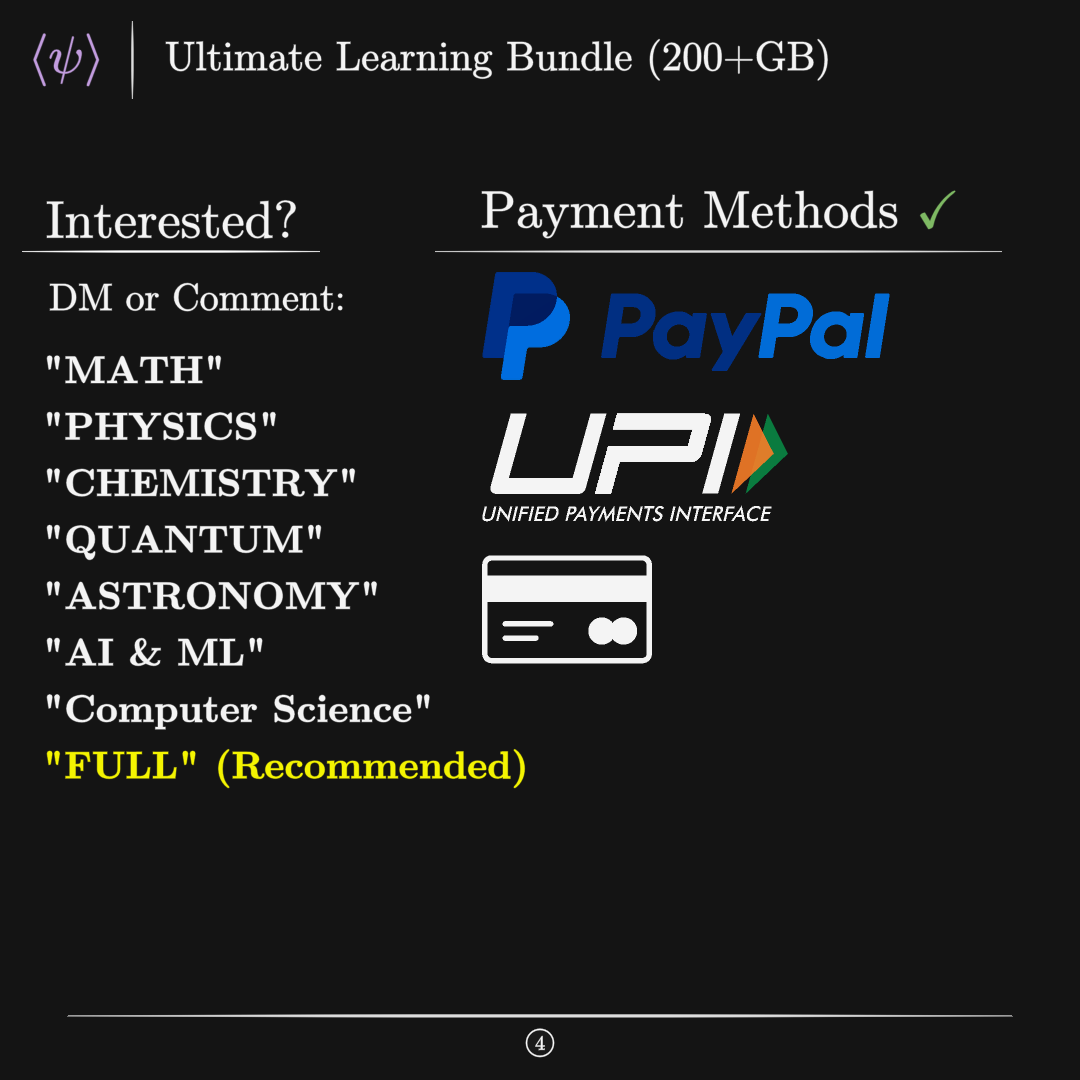
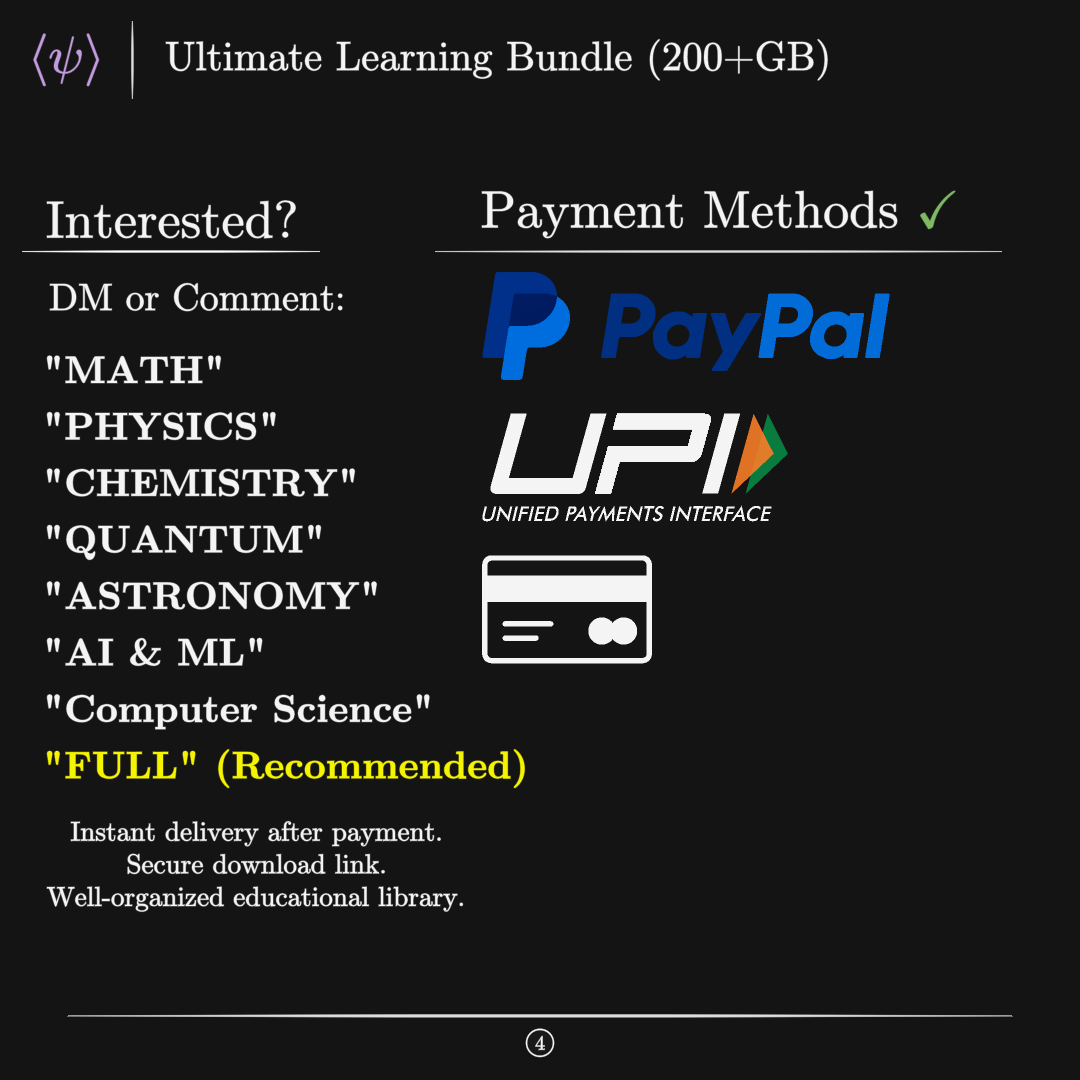
f

Changed region(s): [[0.0306, 0.7639, 0.4278, 0.8556]]

diff --git a/latex_cache/working.tex b/latex_cache/working.tex
@@ -26,15 +26,9 @@
 
 \begin{document}
 
-\flushleft
-DM or Comment:\\[0.25cm]
-            \textbf{"MATH"}\\[0.1cm]
-            \textbf{"PHYSICS"}\\[0.1cm]
-            \textbf{"CHEMISTRY"}\\[0.1cm]
-            \textbf{"QUANTUM"}\\[0.1cm]
-            \textbf{"ASTRONOMY"}\\[0.1cm]
-            \textbf{"AI \& ML"}\\[0.1cm]
-            \textbf{"Computer Science"}\\[0.1cm]
-            \textbf{{{\color[RGB]{0, 0, 1}"FULL" (Recommended)}}}
+\centering
+Instant delivery after payment.\\
+            Secure download link.\\
+            Well-organized educational library.
 
 \end{document}

diff --git a/test.py b/test.py
@@ -194,3 +194,14 @@ class Payment(PaidTemplate):
         svgs[1][0].set_color(WHITE)
         svgs[1][1].set_color(WHITE)
         self.add(svgs)
+
+        info = TexText(
+            r"""
+            Instant delivery after payment.\\
+            Secure download link.\\
+            Well-organized educational library.
+            """,
+            font_size=20,
+        )
+        info.next_to(body, DOWN, aligned_edge=LEFT)
+        self.add(info)
